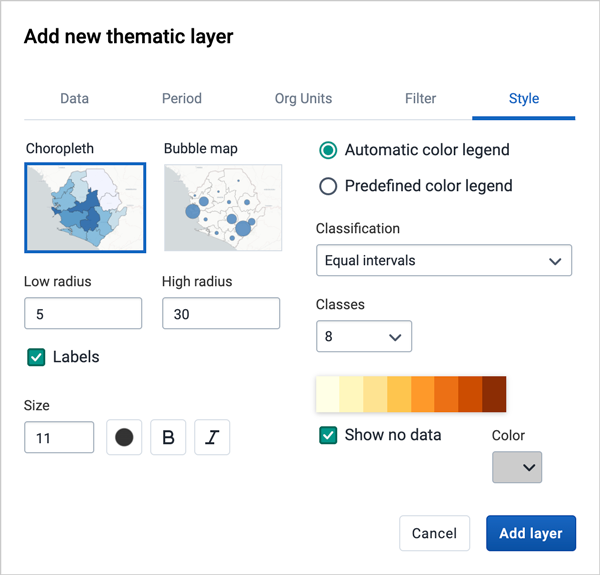
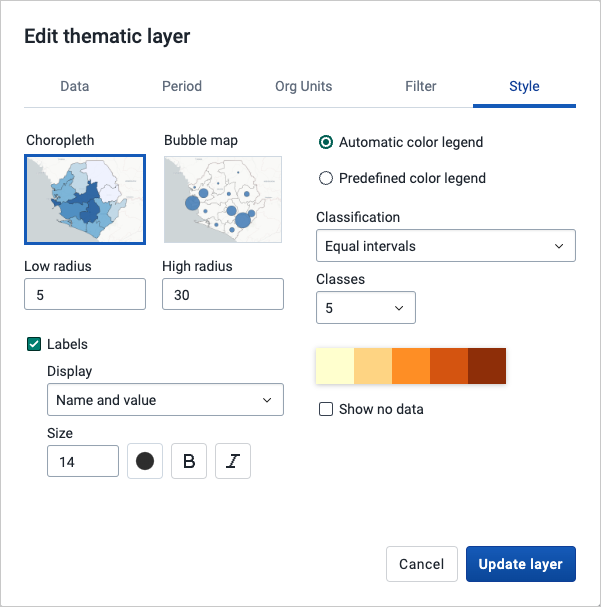
docs: maps download and value labels

diff --git a/src/user/using-the-maps-app.md b/src/user/using-the-maps-app.md
@@ -314,8 +314,8 @@ layer** selection. This opens the Events layer configuration dialog.
       point facilities. The circles will be scaled between low and high radius according
       to the data value. The radius needs to be between 0 and 50 px.
 
-    - **Show labels**: Allows org unit names to be shown on the layer. Font size, weight,
-      style and color can be modified here.
+    - **Show labels**: Allows org unit names and values to be shown on the layer.
+      Select between "Name", "Name and value" and "Value" only. Font size, weight, style and color can also be modified.
 
     - **Show no data**: By default org units with missing data values will not show on the map.
       Check this box if you want to show them with a color. Click the color to change it.
@@ -1610,16 +1610,24 @@ You can download your map as an image by clicking on the Download button in the 
 
 ![](resources/images/maps/maps_download.png)
 
+You will enter a "download mode" where you can adjust the map layout before you download the image. The left column gives you the following options:
+
+- **Show map name**: Select if you want to include the map name or not. This option
+  is only available if the map is saved. To change the name, exit download mode and select _File_ > _Rename_.
+- **Show map description**: Select if you want to include the map description or not.
+  This option is only available if a map description was added when the map was saved. To change the map description, exit download mode and select _File_ > _Rename_.
+- **Show legend**: Select if you want to include the map legend. If the map includes
+  more than one layer, you can select the visibility for each legend.
+- **Show overview map**: Select if you want to include an overview map (often named
+  inset map). This option will be disabled if there is not enough room for it in the right column.
+- **Show north arrow**: Select to include a north arrow on the map. The default
+  position is the lower right corner of the map, but you can change it to another corner.
+- Click **Download** to download your map.
+
+Resize your browser window to change the map dimensions. You can also reposition both the main map and the overview map.
+
 Map download is not supported in Internet Explorer or Safari, we recommend to
 use Google Chrome or Firefox.
-
-1.  Select if you want to include the map name or not. This option is only
-    available if the map is saved.
-
-2.  Select if you want to include the map legend. You can position the legend
-    in one of the 4 corners of your map.
-
-3.  Click **Download** to download your map.
 
 ## Search for a location { #using_maps_search }
 
